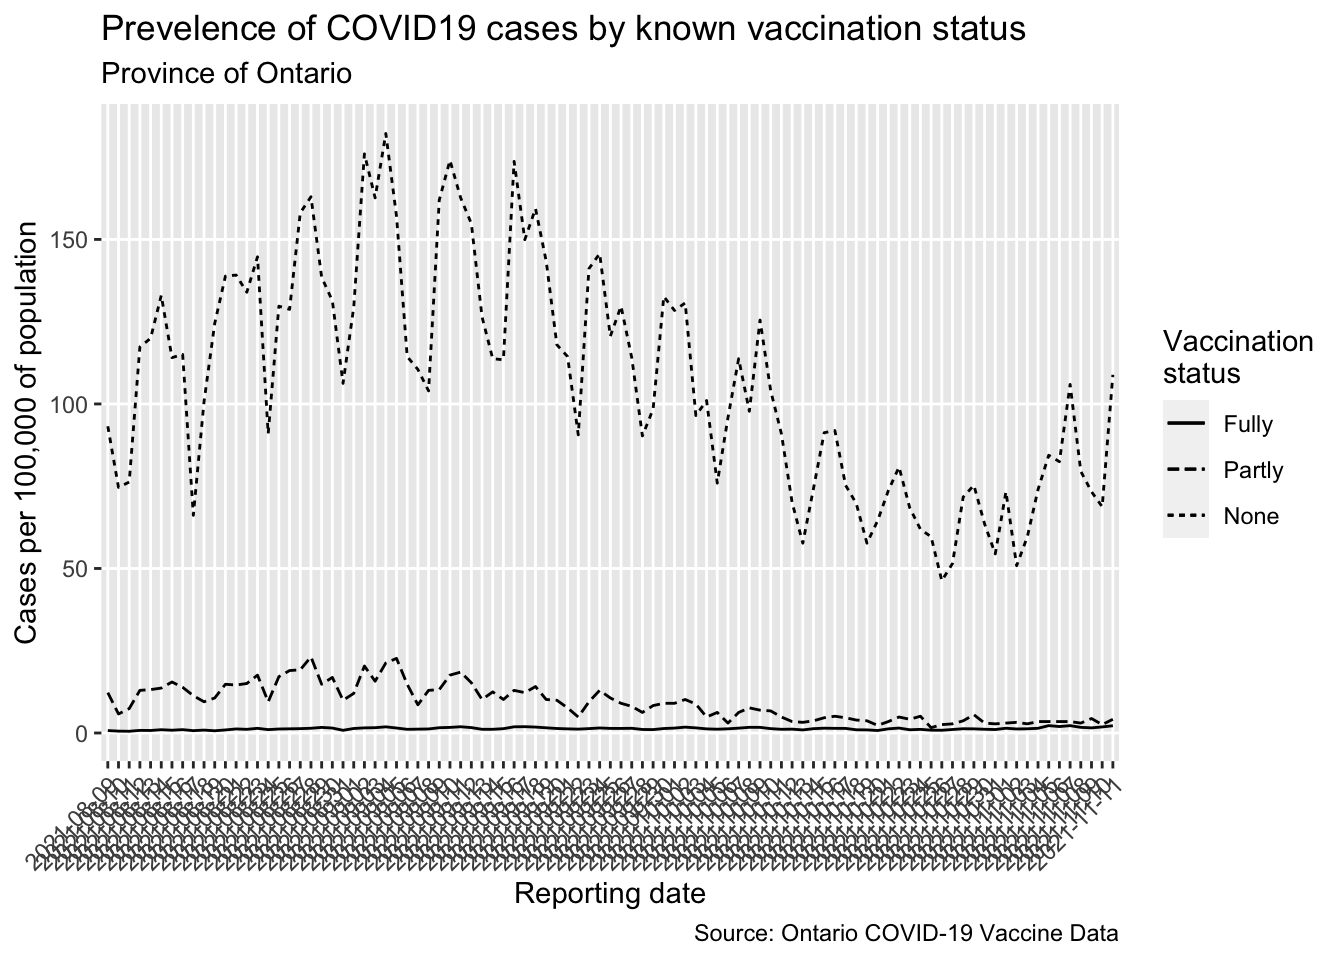
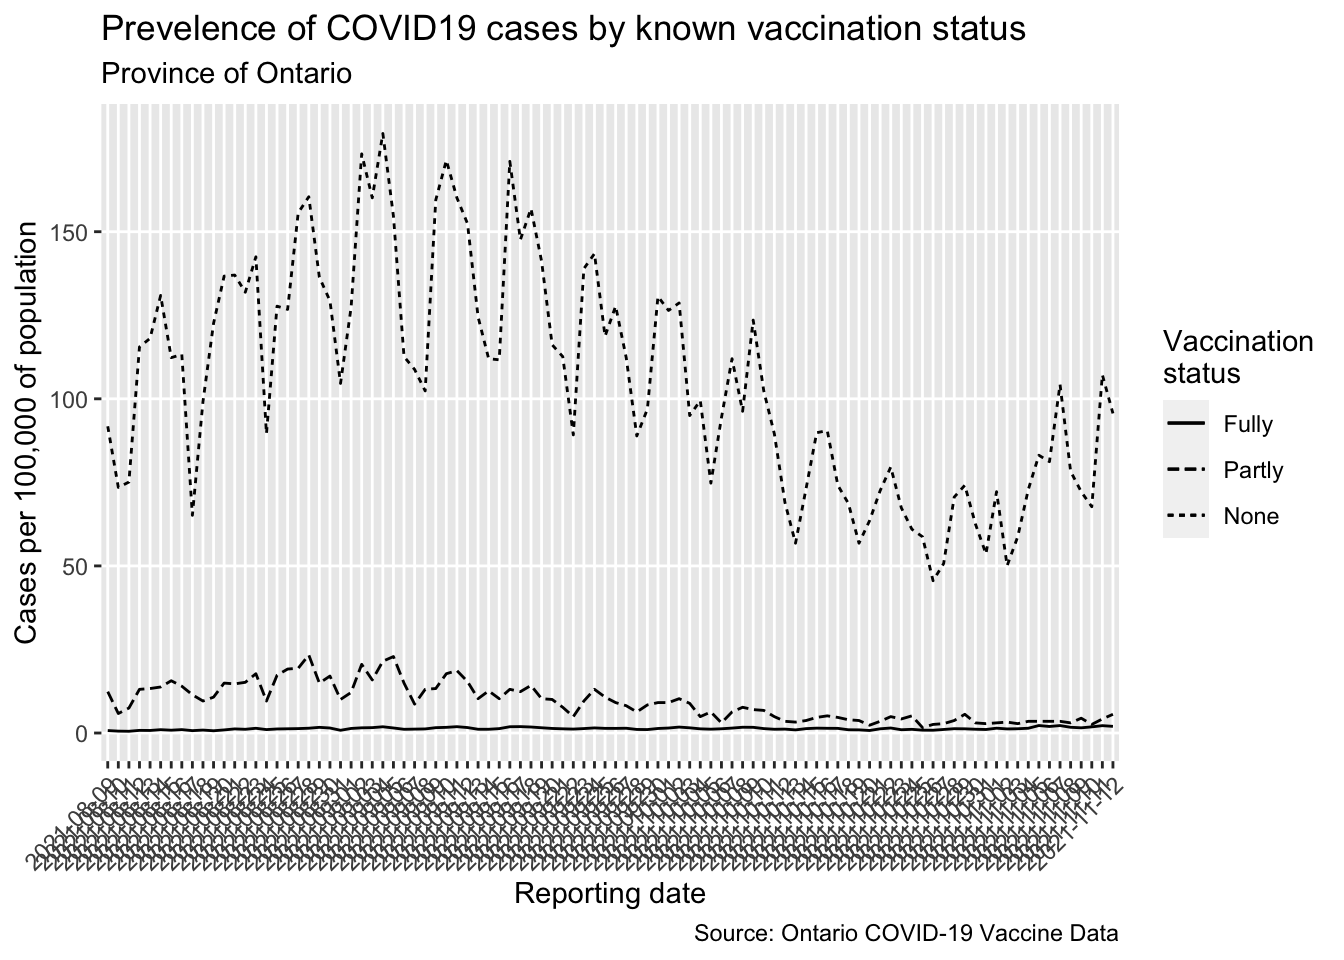
2021-11-12 update

Changed region(s): [[0.0312, 0.0938, 0.8438, 0.9062], [0.0312, 0.2188, 0.0938, 0.25], [0.0312, 0.5625, 0.0625, 0.5938]]

diff --git a/docs/index.html b/docs/index.html
@@ -10,7 +10,7 @@
 
 
 
-<meta name="date" content="2021-11-11" />
+<meta name="date" content="2021-11-12" />
 
 <title>Ontario COVID-19 vaccination progress</title>
 
@@ -190,7 +190,7 @@ summary {
 
 
 <h1 class="title toc-ignore">Ontario COVID-19 vaccination progress</h1>
-<h4 class="date">2021-11-11</h4>
+<h4 class="date">2021-11-12</h4>
 
 </div>
 
@@ -210,10 +210,10 @@ summary {
 </thead>
 <tbody>
 <tr class="odd">
-<td align="center">2021-11-11</td>
-<td align="center">11117999</td>
-<td align="center">432230</td>
-<td align="center">11550229</td>
+<td align="center">2021-11-12</td>
+<td align="center">11126663</td>
+<td align="center">428370</td>
+<td align="center">11555033</td>
 </tr>
 </tbody>
 </table>
@@ -244,9 +244,9 @@ summary {
 </thead>
 <tbody>
 <tr class="odd">
-<td align="center">2021-11-11</td>
-<td align="center">15962</td>
-<td align="center">22668228</td>
+<td align="center">2021-11-12</td>
+<td align="center">13468</td>
+<td align="center">22681696</td>
 </tr>
 </tbody>
 </table>
@@ -289,7 +289,7 @@ ARV = Attack rate of vaccinated people (new cases in vaccinated / total vaccinat
 </div>
 <div id="code" class="section level3">
 <h3>Code</h3>
-<p>Horton, L. (2021). Ontario COVID-19 vaccination tracking (v7.0). <em>Zenodo</em>. <a href="https://doi.org/10.5281/zenodo.5201809" class="uri">https://doi.org/10.5281/zenodo.5201809</a></p>
+<p>Horton, L. (2021). Ontario COVID-19 vaccination tracking (v9.0). <em>Zenodo</em>. <a href="https://doi.org/10.5281/zenodo.4533399" class="uri">https://doi.org/10.5281/zenodo.4533399</a></p>
 </div>
 <div id="r-packages" class="section level3">
 <h3>R packages</h3>

diff --git a/docs/ontario-covid-vaccinations.html b/docs/ontario-covid-vaccinations.html
@@ -207,10 +207,10 @@ summary {
 </thead>
 <tbody>
 <tr class="odd">
-<td align="center">2021-11-11</td>
-<td align="center">11117999</td>
-<td align="center">432230</td>
-<td align="center">11550229</td>
+<td align="center">2021-11-12</td>
+<td align="center">11126663</td>
+<td align="center">428370</td>
+<td align="center">11555033</td>
 </tr>
 </tbody>
 </table>
@@ -241,9 +241,9 @@ summary {
 </thead>
 <tbody>
 <tr class="odd">
-<td align="center">2021-11-11</td>
-<td align="center">15962</td>
-<td align="center">22668228</td>
+<td align="center">2021-11-12</td>
+<td align="center">13468</td>
+<td align="center">22681696</td>
 </tr>
 </tbody>
 </table>
